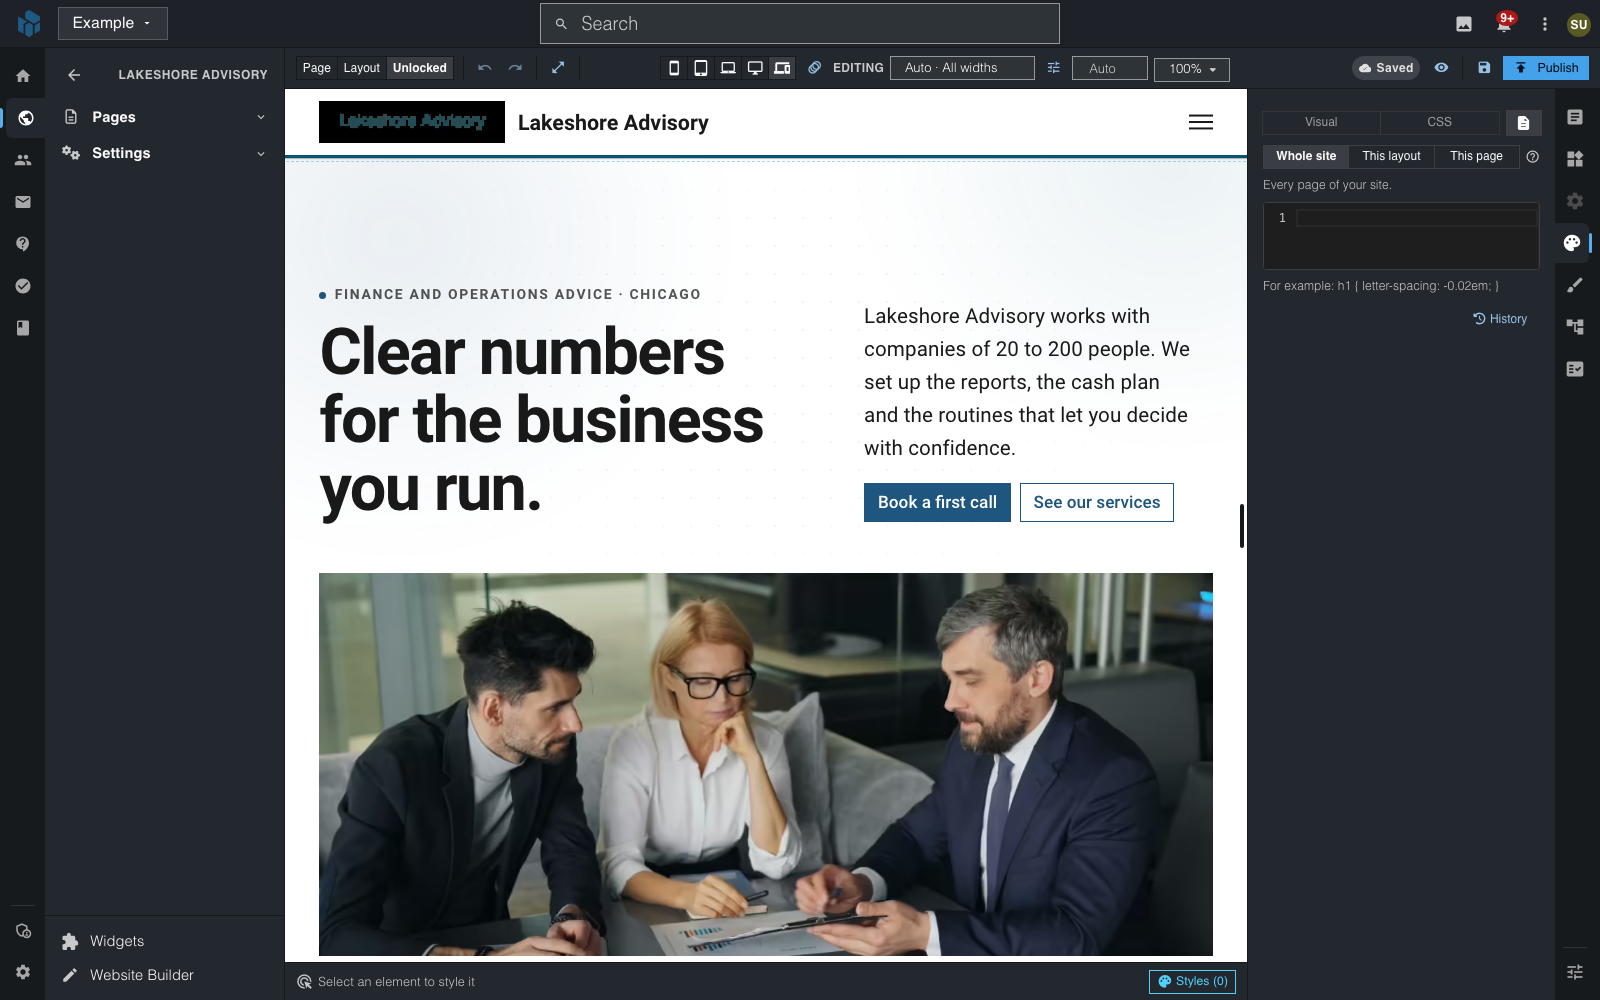
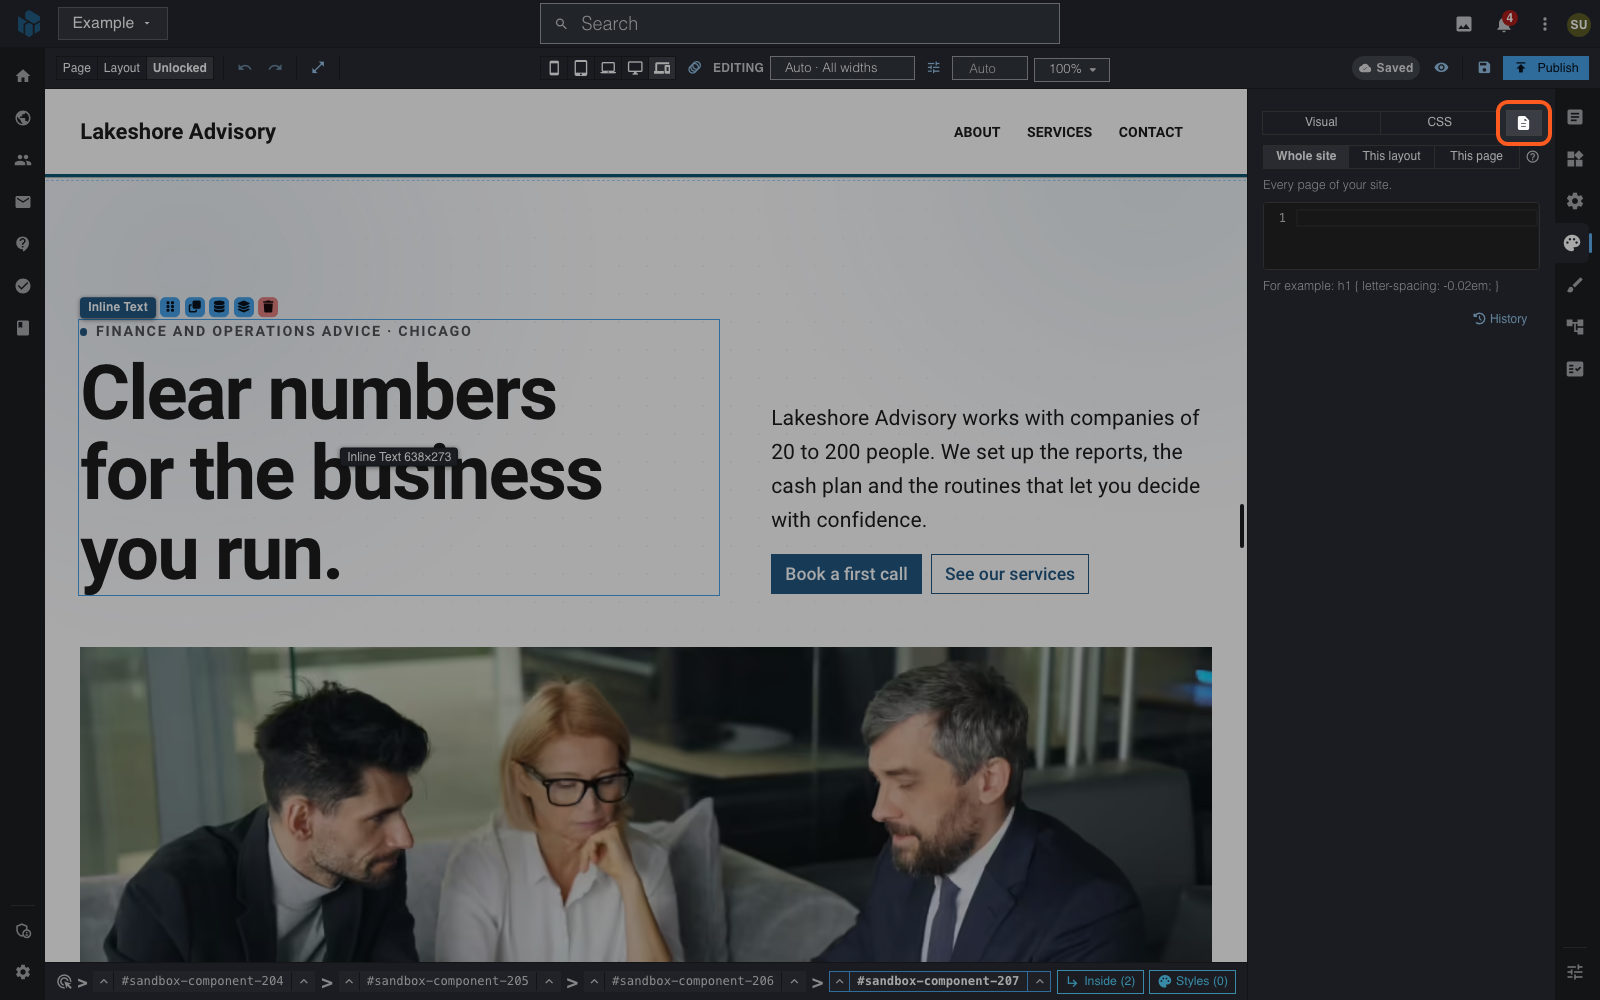
docs(website-builder): add Styler images to styling-elements, fix position and size text
Add 9 ringed images (theme choices, states, spacing, size units, background
layers, motion, position, CSS tab). Retake the panel and Site stylesheet
images. Fix the Sizing, units, spacing preset and Position type text.

diff --git a/website-builder/styling-elements.md b/website-builder/styling-elements.md
@@ -1,6 +1,6 @@
 # Styling Your Page Elements
 
-**Last verified:** 2026-11-07 10:00am
+**Last verified:** 2026-11-07 10:42am
 
 Every element on your page -- text, images, buttons, sections -- can be customized to look exactly the way you want. This guide walks you through the styling tools in WebNesting's Website Builder.
 
@@ -27,7 +27,7 @@ A style you set in one tab shows in the other. In a website's builder, the **Sit
 4. The Styler opens on **Visual** the first time. After that, it opens on the tab you used last.
 5. Click a section's name, like Spacing, Layout or Position, to open or close it. The Styler remembers which sections you keep open or closed, on every page and every element, until you change them.
 
-![The Styler open on the Visual tab for a selected heading, with the Effects, Layout and Sizing sections](../images/website-builder/styler-panel.png)
+![The Styler open for a selected heading, with a ring on the Visual and CSS tabs above the Effects, Layout and Position sections](../images/website-builder/styler-panel.png)
 
 ---
 
@@ -41,6 +41,8 @@ On the **Visual** tab, the settings most people need have a row of one-tap choic
 4. To take a choice away, click it again.
 
 To set an exact value instead, use the setting under the choices.
+
+![The Typography section with a ring on the Font Size row: the Small, Normal, Large and XL choices, with the menu arrow and an exact size box below](../images/website-builder/styling-elements-theme-choices.png)
 
 Where the choices are:
 
@@ -104,6 +106,8 @@ An element can look different while a visitor points at it, while it has focus, 
 2. At the top of **Visual**, click **Hover**. The page shows the element as it looks on hover, so you do not have to move your mouse over it.
 3. Change any style, such as a color, a shadow or a border. The change applies only on hover.
 4. Click **Default** to go back to the usual look.
+
+![The four looks at the top of the Styler, ringed, with Hover lit and the line "Showing the Hover look" under the element toolbar](../images/website-builder/styling-elements-states.png)
 
 The four looks:
 
@@ -188,6 +192,8 @@ For a linear gradient, turn the **Direction** dial, or type the angle beside it.
 ### Adding a Color Layer
 
 Choose **Color** under **Add a layer**. A color layer covers every layer below it, so use a see-through color to tint an image under it.
+
+![The Background section with a ring on the Add a layer button and its menu open, showing Gradient, Image and Color](../images/website-builder/styling-elements-background-layers.png)
 
 ### Layer Options
 
@@ -283,9 +289,13 @@ Spacing controls how much room an element has around and inside it. Think of it 
 4. Click on any value in the diagram (top, right, bottom, or left).
 5. A small editor will appear where you can type a number, drag a slider, or choose a preset value.
 
+![The Spacing section with a ring on the Space inside and Space around rows, each with the steps 0 to 5 and a menu arrow, above the margin and padding diagram](../images/website-builder/styling-elements-spacing-diagram.png)
+
 ### Quick Preset Values
 
-When you click a spacing value, you will see preset buttons like 0, 4, 8, 16, 24, and 32. These let you quickly set common spacing amounts without typing.
+When you click a spacing value, a small editor opens with a slider, a number box and preset buttons: 0px, 4px, 8px, 16px, 24px and 32px. These let you quickly set common spacing amounts without typing.
+
+![The small spacing editor with a slider, a number box and preset buttons from 0px to 32px, with 0px and 32px ringed](../images/website-builder/styling-elements-spacing-presets.png)
 
 > **Tip:** Start with even, consistent spacing. Using the same spacing values throughout your page (like 16 for small gaps and 32 for large gaps) creates a clean, professional look.
 
@@ -298,15 +308,19 @@ Size controls how wide and tall an element is.
 ### Width and Height
 
 1. Select the element.
-2. In the Styler, look for the **Width** and **Height** controls. These may appear in the Spacing or Size section.
+2. In the Styler, open the **Sizing** section. It has **Width** and **Height**, with **Min** and **Max** limits for each.
 3. Type a number or drag the slider to set the size.
-4. Choose your unit from the dropdown next to the number.
+4. Choose your unit from the **Unit** button next to the number.
+
+![The Sizing section with the Width Unit button ringed and its menu open, showing %, px, rem, em, vw and dvw](../images/website-builder/styling-elements-size-units.png)
 
 ### Understanding Units
 
 - **Pixels (px)** -- An exact, fixed size. Use pixels when you want something to be a specific size no matter what. For example, "200px" will always be 200 pixels wide.
 - **Percent (%)** -- A size relative to the parent container. If you set something to "50%", it will take up half of its parent's width. Great for flexible, responsive layouts.
-- **Auto** -- Lets the browser decide the best size based on the content. This is often the default and works well in most cases.
+- **rem** and **em**: a size that grows with the text size. **rem** follows the page's base text size. **em** follows the text size of the element itself.
+- **vw** and **dvw**: a share of the screen's width. **100vw** is the full width of the screen.
+- **Auto**: the browser picks the size from the content. This is often the default and works well in most cases. Pick it with the **Keyword values** button next to the unit.
 
 ### When to Use Each Unit
 
@@ -396,6 +410,8 @@ Masks have **Size**, **Position** and **Repeat**, like background layers.
 ## Motion
 
 Motion moves, turns and scales an element, animates a change such as a hover, and plays animations. It is in three sections of the Styler: **Transform**, **Transition** and **Motion**.
+
+![The Motion section of the Styler with a ring on the Add motion button, above the Keep it moving menu](../images/website-builder/styling-elements-motion.png)
 
 ### Moving, Turning and Scaling (Transform)
 
@@ -537,7 +553,7 @@ The Position controls determine where an element sits on the page.
 
 ### Position Types
 
-Most of the time, you will not need to change an element's position. But when you do, here are the options:
+Most of the time, you will not need to change an element's position. But when you do, the **Position** row shows **Relative**, **Absolute** and **Fixed**. The menu arrow at the end of the row has the other choices, such as **Static**. Here are the options:
 
 - **Static** -- The default. The element flows naturally with the rest of the page content.
 - **Relative** -- The element stays in its normal place but can be nudged up, down, left, or right from where it would normally be.
@@ -547,6 +563,8 @@ Most of the time, you will not need to change an element's position. But when yo
 ### Stick While Scrolling
 
 Under the position choices, **Stick while scrolling** keeps an element on screen as visitors scroll. **Stick at the top** makes the element scroll normally until it reaches the top of the screen, then stay there while the block around it scrolls past. It is great for section headers that should remain visible. On a section, **Hold its content for 1, 1.5, 2 or 3 screens** keeps the section's first block on screen for that long. See [Stick While Scrolling](animations-and-interactions.md#stick-while-scrolling).
+
+![The Position section with a ring on the Stick while scrolling menu, set to Off, above the Offsets, Z Index, Float and Clear settings](../images/website-builder/styling-elements-position.png)
 
 ### Anchor Presets
 
@@ -574,7 +592,7 @@ If you have made changes and want to start fresh, you can clear individual style
 
 1. Click on the value you want to clear in the visual spacing diagram.
 2. In the popover that appears, look for preset buttons.
-3. Click the "0" preset to remove spacing, or use the clear button to reset the value entirely.
+3. Click the **0px** preset to remove spacing, or use the clear button to reset the value entirely.
 
 > **Tip:** Clearing a style does not delete the element -- it just removes your customization, letting the default or theme style show through.
 
@@ -666,6 +684,8 @@ Apply the same Effect to another element, and it uses the same Style, so you nev
 ## The CSS Tab: Any CSS for One Element
 
 The **CSS** tab at the top of the **Styles** panel shows the CSS of the element you selected, as rules you can type in. It takes any CSS: properties the Styler has no control for, your own variables such as `--brand: #0af`, browser-prefixed properties, fallbacks and `!important`. Nothing you type is dropped or changed.
+
+![The Styles panel on the CSS tab, ringed, showing the element's rule with Raw CSS, Add a condition and Add a state block](../images/website-builder/styling-elements-css-tab.png)
 
 Each rule shows as a block. The block's first lines say when it applies, for example `@media only screen and (max-width: 1023px) { /* MD ≤ */`. Each row is a property and its value. Clear a row's checkbox to turn it off and keep its value. Click **×** on a row to remove it.
 
